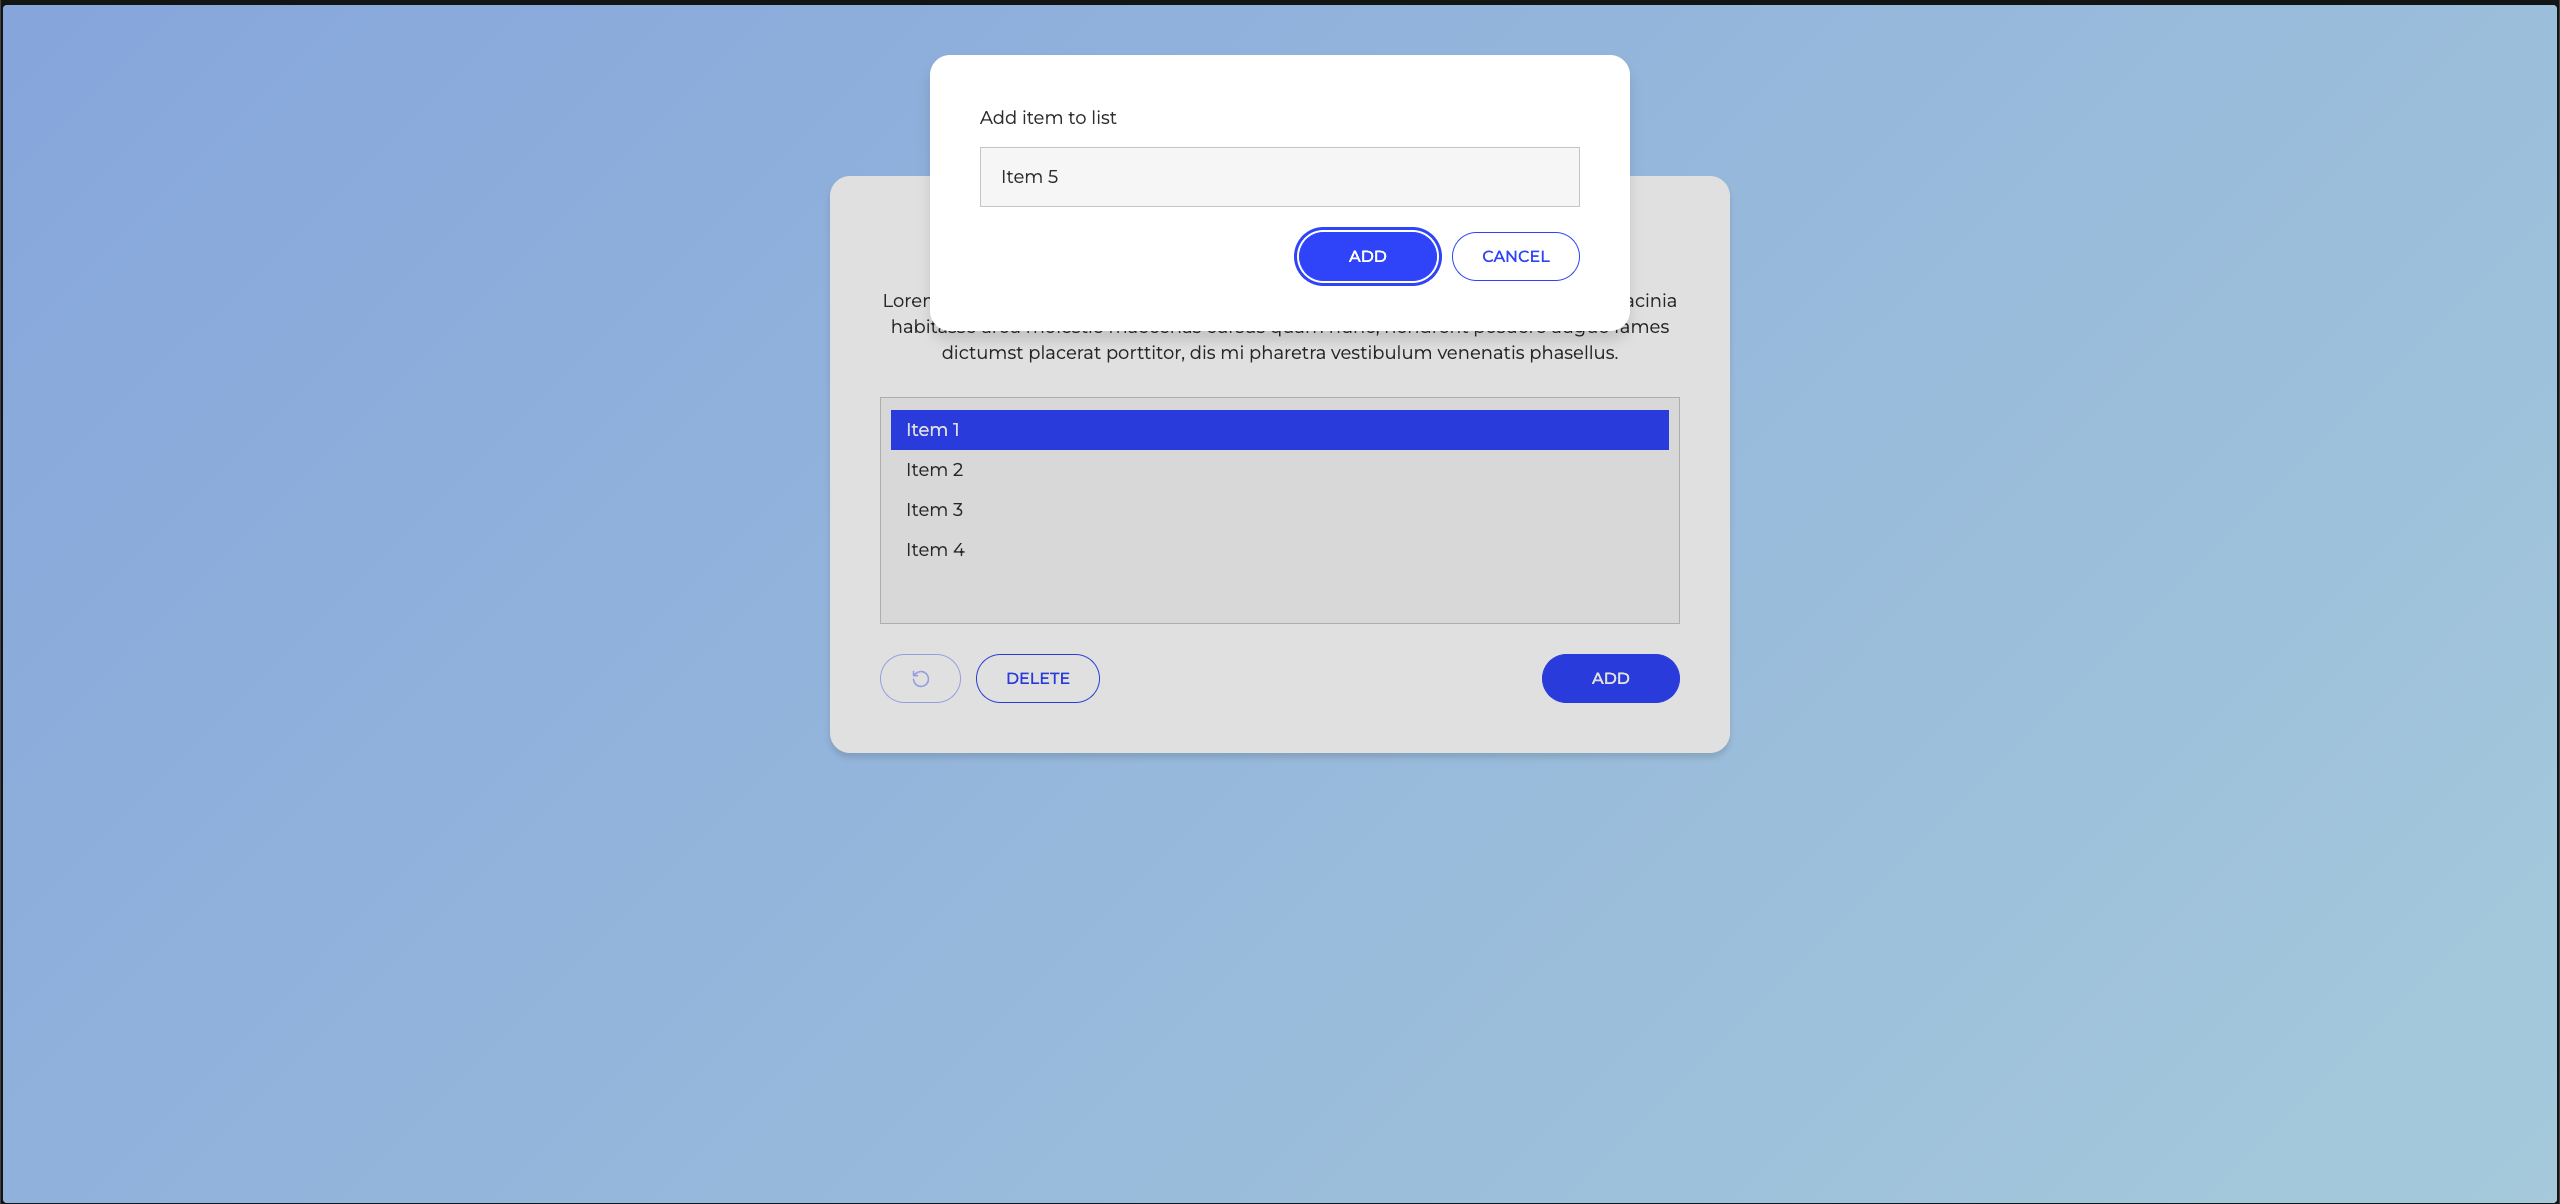
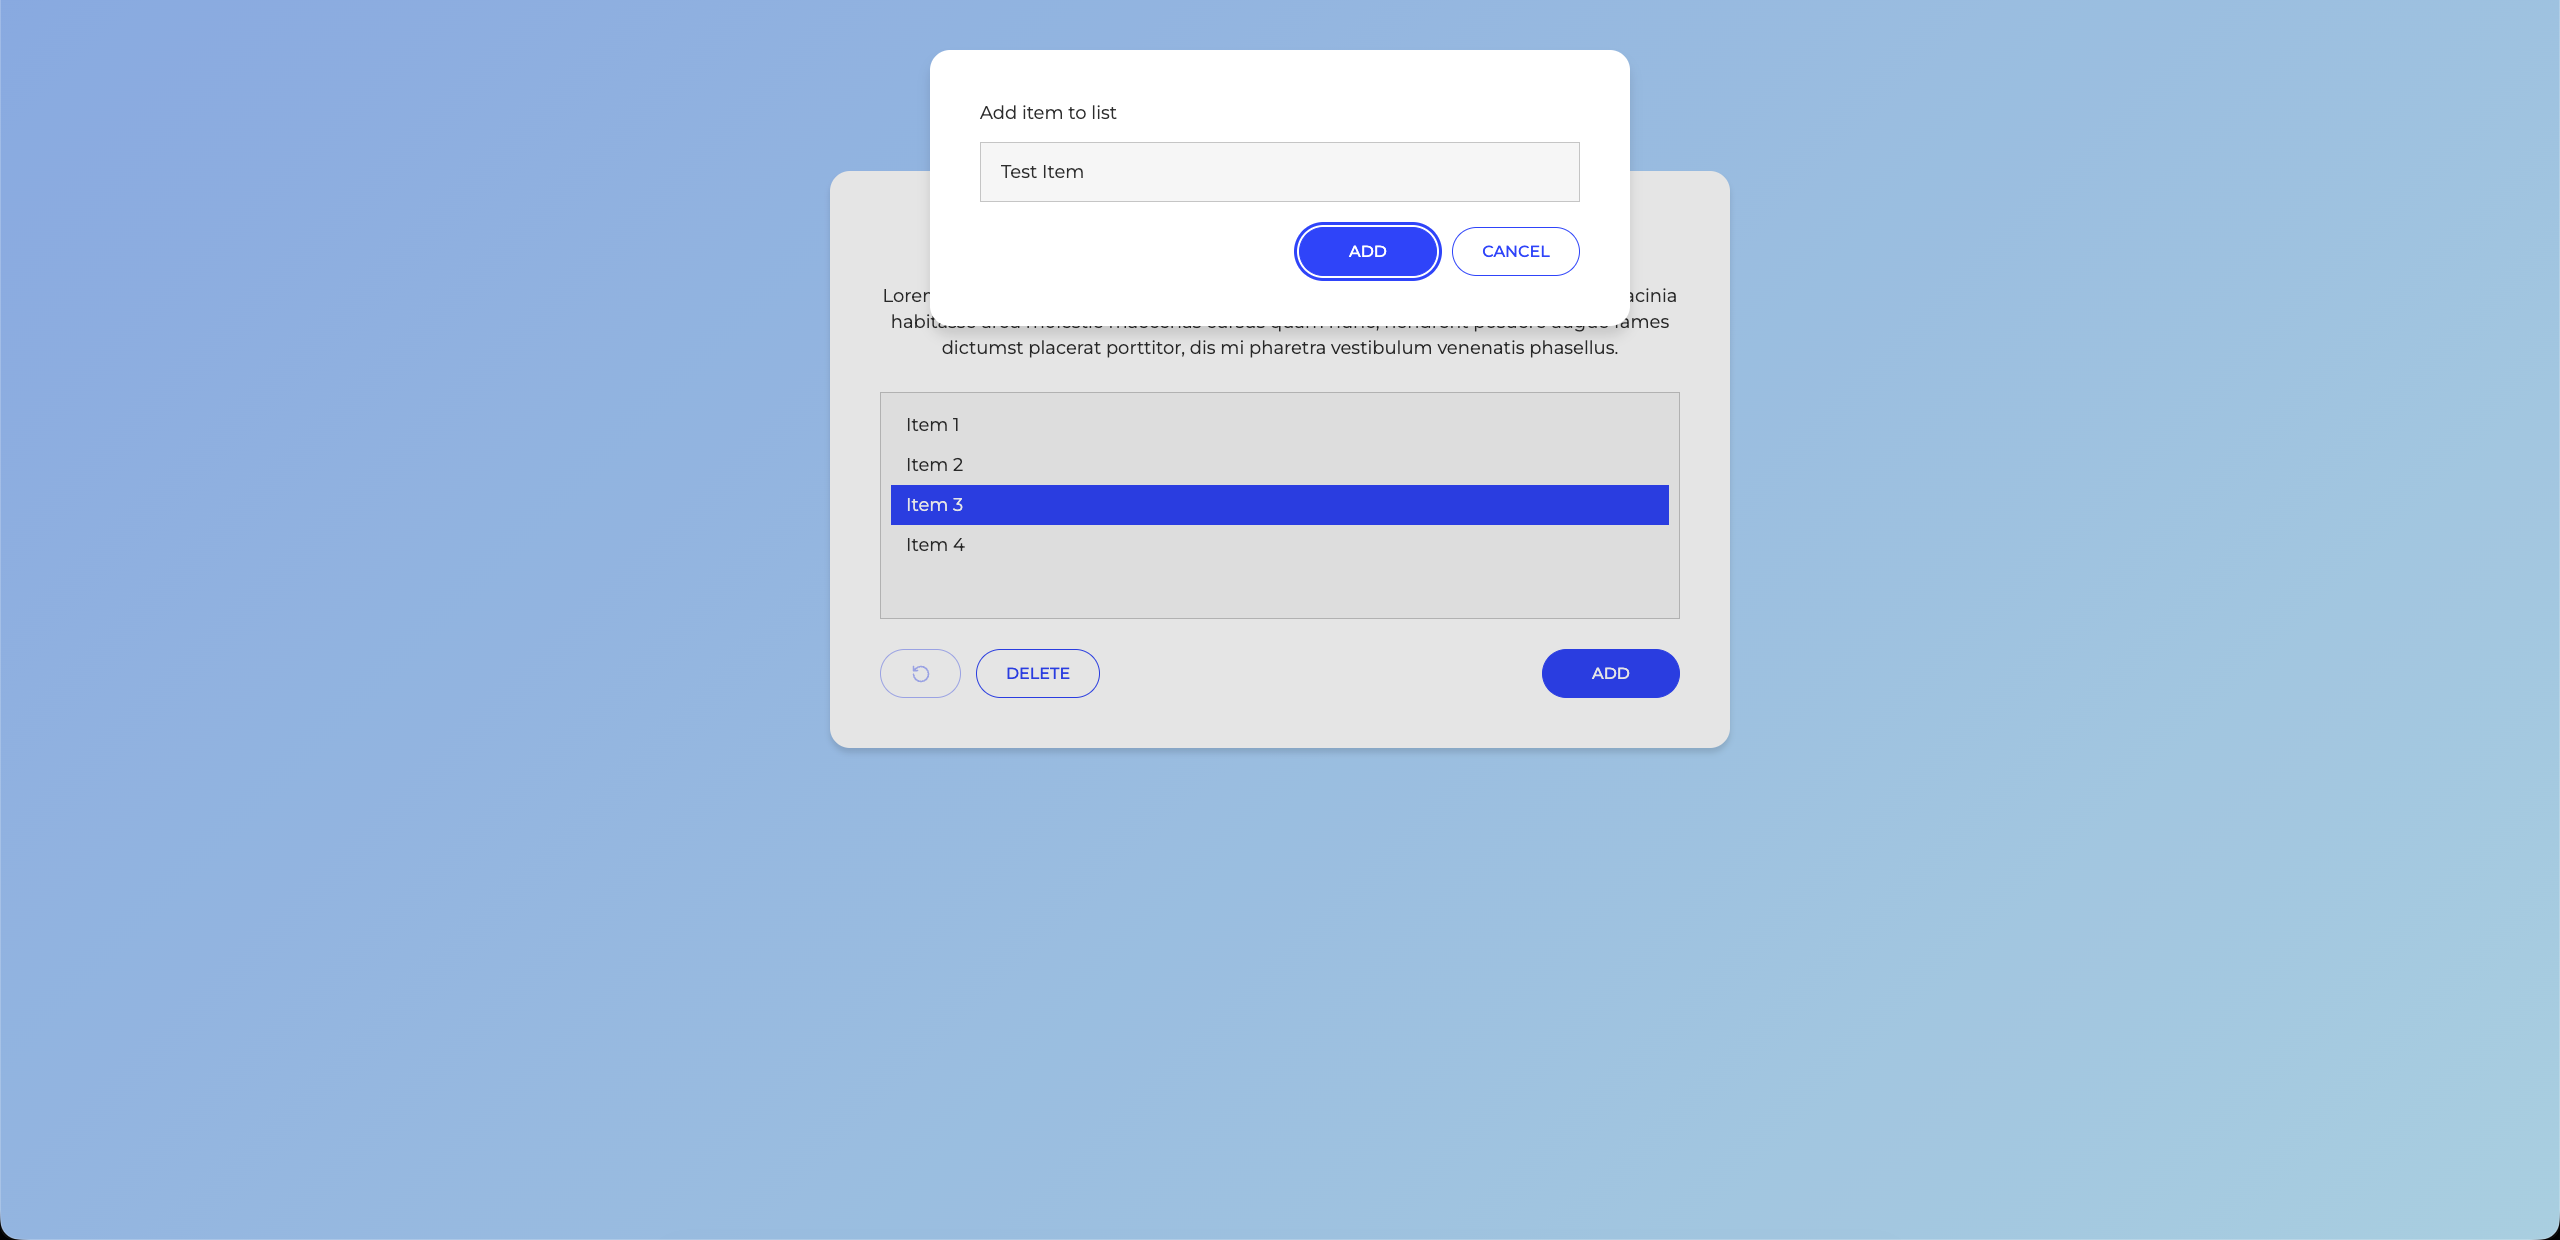
feat: update styles and accessibility in README, add modal image

diff --git a/shared/styles.css b/shared/styles.css
@@ -5,14 +5,18 @@
   --color-text-placeholder: var(--color-text);
   --color-surface: #fff;
   --color-surface-subtle: #f7f7f7;
-  --color-surface-hover: var(--color-surface);
+  --color-surface-hover: color-mix(
+    in srgb,
+    var(--color-surface-subtle) 94%,
+    var(--color-text)
+  );
   --color-border: #cccccc;
   --color-border-control: var(--color-border);
   --color-background-start: #a1c4fd;
   --color-background-end: #c2e9fb;
   --color-focus-ring: var(--color-primary);
   --color-shadow: #0000001f;
-  --color-backdrop: var(--color-shadow);
+  --color-backdrop: #0000001a;
 
   --font-family-body: "Montserrat", system-ui, sans-serif;
   --font-size-body: 1.125rem;

diff --git a/README.md b/README.md
@@ -45,9 +45,8 @@ Use the URL printed in the terminal if the default port is occupied. Press
 Ctrl+C to stop the server. To compare both versions, run each command in a
 separate terminal.
 
-The Vanilla server redirects `/` to `/vanilla/` and serves the repository root
-so that the shared stylesheet remains accessible. Because Vanilla uses ES
-modules, open it through the server rather than `file://`.
+Vanilla uses ES modules; run it with `pnpm dev:vanilla` rather than opening the
+HTML file directly.
 
 ### Type checking and build
 
@@ -86,20 +85,26 @@ the `vanilla/` and `shared/` directories alongside each other.
   smaller screens and enlarged text can expand the layout without fixing the
   card height.
 
-## Accessibility considerations
+## Accessibility
 
-Both versions provide input labels, accessible button names, selection states,
-and visible keyboard focus. Items can be reached with Tab and selected with
-Space or Enter.
+Both implementations include:
 
-The native `<dialog>` focuses the input, prevents focus from moving into the
-background, and restores focus to Add when closed. The input border follows
-XD (`#CCCCCC`), while the focus ring uses the primary color. The placeholder
-uses the text color for readability. The unfocused input border remains below
-the 3:1 non-text contrast threshold.
+- **Keyboard support:** Tab reaches the controls and list items; Space or Enter
+  toggles item selection.
+- **Labels and states:** the input has an associated label, buttons have
+  accessible names, and list items expose their selection through `aria-selected`.
+- **Modal focus management:** the native `<dialog>` focuses the input, keeps
+  focus out of the background, and returns it to Add when closed. Escape and
+  Cancel dismiss the dialog.
+- **Visible focus:** controls and list items use a primary-color focus ring.
+  Placeholder text uses the body text color for readability.
+- **Reduced motion:** focus and hover transitions do not move or resize
+  controls and are disabled when `prefers-reduced-motion: reduce` is enabled.
 
-Focus and hover transitions use short motion tokens without moving or resizing
-controls. They are disabled when `prefers-reduced-motion: reduce` is enabled.
+### Known limitations
 
-Arrow-key navigation for the listbox pattern is not implemented. These
-measures are not a claim of full WCAG conformance.
+- The input border preserves XD's `#CCCCCC`, which falls below the 3:1
+  non-text contrast threshold when unfocused.
+- Listbox navigation uses Tab; arrow-key navigation is not implemented.
+
+These features do not constitute a claim of full WCAG conformance.
